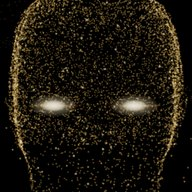
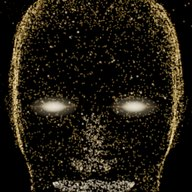
Particle face: even density (the back of the head no longer shows through the top), a nose picked out of the face's own ridge and tip, and lips of light that part as Jarvis talks

diff --git a/app/src/main/assets/www/index.html b/app/src/main/assets/www/index.html
@@ -381,6 +381,7 @@ function makeGoldenParticleFace(model) {
       const area = nrm.length() * 0.5;
       if (area < 1e-9) continue;
       if (mid && nrm.dot(toMid.set((localA.x + localB.x + localC.x) / 3, cy, (localA.z + localB.z + localC.z) / 3).sub(mid)) < 0) continue;   // facing into the head (inside the mouth, eye sockets): it'd shine through the face
+      if (nrm.z / (2 * area) < -0.15) continue;   // the back of the head: it shone through and doubled the dots up top
       const nz = Math.abs(nrm.z) / (2 * area), out = mid ? Math.max(0, (nrm.x * toMid.x + nrm.z * toMid.z) / (2 * area * Math.hypot(toMid.x, toMid.z) || 1)) : 1;
       totalArea += area * (nz > 0.5 || out > 0.6 ? 1 : 0.35);   // fewer dots in creases seen edge-on (they piled up into a frown); the outline keeps its dots
       candidates.push([localA.clone(), localB.clone(), localC.clone()]);
@@ -440,7 +441,52 @@ function makeGoldenParticleFace(model) {
       const g = new THREE.BufferGeometry(); g.setAttribute('position', new THREE.BufferAttribute(p, 3));
       const ring = new THREE.Points(g, mat(0.014, 0xffcf7a)); ring.frustumCulled = false; ring.rotation.y = Math.random() * 6; orbit.add(ring);
     }
-    particleFx = { spark, orbit };
+    // ---- a nose and a mouth you can see. The nose is the face's own ridge and tip, picked out brighter: at each height
+    //      between the mouth and the eyes, the dots nearest the front of the face. The mouth is two lips of light that part
+    //      as he talks, placed by the teeth inside the model (they sit right behind the lips).
+    const sample = out => { const tri = candidates[(() => { const target = Math.random() * totalArea; let lo = 0, hi = cumulative.length - 1;
+        while (lo < hi) { const m2 = (lo + hi) >> 1; if (cumulative[m2] < target) lo = m2 + 1; else hi = m2; } return lo; })()];
+      const u = Math.random(), v = Math.random(), su = Math.sqrt(u), wa = 1 - su, wb = su * (1 - v), wc = su * v;
+      out.set(tri[0].x * wa + tri[1].x * wb + tri[2].x * wc, tri[0].y * wa + tri[1].y * wb + tri[2].y * wc, tri[0].z * wa + tri[1].z * wb + tri[2].z * wc); return out; };
+    const eb2 = new THREE.Box3(), tb = new THREE.Box3();
+    eyeMeshes.forEach(e => eb2.expandByObject(e)); model.traverse(m => { if (m.isMesh && /teeth/i.test(m.name)) tb.expandByObject(m); });
+    const eyeY = eb2.isEmpty() ? mid.y : eb2.applyMatrix4(invRoot).getCenter(new THREE.Vector3()).y;
+    if (!tb.isEmpty()) tb.applyMatrix4(invRoot);
+    const my = tb.isEmpty() ? head.neck + span * 0.3 : tb.max.y - (tb.max.y - tb.min.y) * 0.25, mw = tb.isEmpty() ? span * 0.2 : (tb.max.x - tb.min.x);
+    const NB = 48, front = new Array(NB).fill(-Infinity), at = new Array(NB).fill(null), pts = [], q = new THREE.Vector3();
+    const bin = y => Math.floor((y - my) / (eyeY - my) * NB);
+    for (let i = 0; i < 60000; i++) {                  // a fine look at the face's shape (positions only, cheap)
+      sample(q); if (Math.abs(q.x - cx) > span * 0.13) continue;
+      const k = bin(q.y); if (k < 0 || k >= NB) continue; pts.push(q.x, q.y, q.z);
+      if (q.z > front[k]) { front[k] = q.z; at[k] = q.x; }
+    }
+    let lipZ = -Infinity; for (let i = 0; i < pts.length; i += 3) if (bin(pts[i + 1]) <= 1 && Math.abs(pts[i] - cx) < span * 0.05) lipZ = Math.max(lipZ, pts[i + 2]);
+    if (!Number.isFinite(lipZ)) lipZ = (head.cz || 0) + span * 0.4;
+    let tipK = 0; for (let k = 8; k < NB - 6; k++) if (front[k] > front[tipK] || tipK < 8) tipK = k;    // the nose tip: the most forward point above the lips
+    const nose = [];
+    for (let i = 0; i < pts.length && nose.length < 900 * 3; i += 3) {
+      const k = bin(pts[i + 1]); if (k < tipK - 4 || k > NB - 6) continue;
+      const wide = k <= tipK + 2 ? span * 0.08 : span * 0.026;                       // nostrils around the tip; a thin ridge above it
+      if (Math.abs(pts[i] - (at[k] ?? cx)) < wide && pts[i + 2] > front[k] - span * (k <= tipK + 2 ? 0.05 : 0.02)) nose.push(cx + (pts[i] - cx) * widen(pts[i + 1]), pts[i + 1], pts[i + 2] + span * 0.004);
+    }
+    const ng = new THREE.BufferGeometry(); ng.setAttribute('position', new THREE.Float32BufferAttribute(nose, 3));
+    const noseDots = new THREE.Points(ng, mat(0.017, 0xffe7b8)); noseDots.frustumCulled = false; model.add(noseDots);
+    const NL = 520, lipT = new Float32Array(NL), lipD = new Float32Array(NL), lp = new Float32Array(NL * 3);
+    for (let i = 0; i < NL; i++) { lipT[i] = Math.random() * 2 - 1; lipD[i] = Math.random(); }
+    const lg = new THREE.BufferGeometry(); lg.setAttribute('position', new THREE.BufferAttribute(lp, 3));
+    const lips = new THREE.Points(lg, mat(0.018, 0xfff0cf)); lips.frustumCulled = false; model.add(lips);
+    const shapeLips = open => {                        // open: 0 closed .. 1 wide; upper and lower lip, meeting at the corners
+      const w = mw * 0.55 * widen(my) * (1 - 0.15 * open), gap = open * span * 0.085;
+      for (let i = 0; i < NL; i++) {
+        const t = lipT[i], c = 1 - t * t, up = i % 2 === 0, th = lipD[i] * Math.sqrt(c) * span * (up ? 0.02 : 0.028);
+        lp[i * 3] = cx + t * w;
+        lp[i * 3 + 1] = my + (up ? 1 : -1) * (gap * c * 0.5 + th) + (up ? span * 0.004 * Math.cos(t * 9) * c : 0);   // a hint of a cupid's bow
+        lp[i * 3 + 2] = lipZ + span * 0.01 - t * t * span * 0.07;
+      }
+      lg.attributes.position.needsUpdate = true;
+    };
+    shapeLips(0);
+    particleFx = { spark, orbit, shapeLips, open: 0 };
   }
   return cloud;
 }
@@ -644,6 +690,8 @@ function applyColors() {
   if (particleFx && avatarModel) {
     const t = performance.now() / 1000, f = particleFx;
     f.spark.forEach((o, i) => { o.material.opacity = avatarAlpha * (0.55 + 0.45 * Math.sin(t * 1.7 + i * 3.1)); });
+    const syll = Math.abs(Math.sin(t * 9.3) * Math.sin(t * 3.7 + 1.3)) * 0.75 + Math.abs(Math.sin(t * 15.1)) * 0.25;   // a speaking rhythm
+    f.open += (speakingAmount * (0.15 + 0.85 * syll) - f.open) * 0.35; f.shapeLips(f.open);
     f.orbit.rotation.y = t * 0.12 * currentSpinMul * 2.5; f.orbit.rotation.z = 0.12 * Math.sin(t * 0.2);
   }
 }

diff --git a/pc_source/index.html b/pc_source/index.html
@@ -353,6 +353,7 @@ function makeGoldenParticleFace(model) {
       const area = nrm.length() * 0.5;
       if (area < 1e-9) continue;
       if (mid && nrm.dot(toMid.set((localA.x + localB.x + localC.x) / 3, cy, (localA.z + localB.z + localC.z) / 3).sub(mid)) < 0) continue;   // facing into the head (inside the mouth, eye sockets): it'd shine through the face
+      if (nrm.z / (2 * area) < -0.15) continue;   // the back of the head: it shone through and doubled the dots up top
       const nz = Math.abs(nrm.z) / (2 * area), out = mid ? Math.max(0, (nrm.x * toMid.x + nrm.z * toMid.z) / (2 * area * Math.hypot(toMid.x, toMid.z) || 1)) : 1;
       totalArea += area * (nz > 0.5 || out > 0.6 ? 1 : 0.35);   // fewer dots in creases seen edge-on (they piled up into a frown); the outline keeps its dots
       candidates.push([localA.clone(), localB.clone(), localC.clone()]);
@@ -412,7 +413,52 @@ function makeGoldenParticleFace(model) {
       const g = new THREE.BufferGeometry(); g.setAttribute('position', new THREE.BufferAttribute(p, 3));
       const ring = new THREE.Points(g, mat(0.014, 0xffcf7a)); ring.frustumCulled = false; ring.rotation.y = Math.random() * 6; orbit.add(ring);
     }
-    particleFx = { spark, orbit };
+    // ---- a nose and a mouth you can see. The nose is the face's own ridge and tip, picked out brighter: at each height
+    //      between the mouth and the eyes, the dots nearest the front of the face. The mouth is two lips of light that part
+    //      as he talks, placed by the teeth inside the model (they sit right behind the lips).
+    const sample = out => { const tri = candidates[(() => { const target = Math.random() * totalArea; let lo = 0, hi = cumulative.length - 1;
+        while (lo < hi) { const m2 = (lo + hi) >> 1; if (cumulative[m2] < target) lo = m2 + 1; else hi = m2; } return lo; })()];
+      const u = Math.random(), v = Math.random(), su = Math.sqrt(u), wa = 1 - su, wb = su * (1 - v), wc = su * v;
+      out.set(tri[0].x * wa + tri[1].x * wb + tri[2].x * wc, tri[0].y * wa + tri[1].y * wb + tri[2].y * wc, tri[0].z * wa + tri[1].z * wb + tri[2].z * wc); return out; };
+    const eb2 = new THREE.Box3(), tb = new THREE.Box3();
+    eyeMeshes.forEach(e => eb2.expandByObject(e)); model.traverse(m => { if (m.isMesh && /teeth/i.test(m.name)) tb.expandByObject(m); });
+    const eyeY = eb2.isEmpty() ? mid.y : eb2.applyMatrix4(invRoot).getCenter(new THREE.Vector3()).y;
+    if (!tb.isEmpty()) tb.applyMatrix4(invRoot);
+    const my = tb.isEmpty() ? head.neck + span * 0.3 : tb.max.y - (tb.max.y - tb.min.y) * 0.25, mw = tb.isEmpty() ? span * 0.2 : (tb.max.x - tb.min.x);
+    const NB = 48, front = new Array(NB).fill(-Infinity), at = new Array(NB).fill(null), pts = [], q = new THREE.Vector3();
+    const bin = y => Math.floor((y - my) / (eyeY - my) * NB);
+    for (let i = 0; i < 60000; i++) {                  // a fine look at the face's shape (positions only, cheap)
+      sample(q); if (Math.abs(q.x - cx) > span * 0.13) continue;
+      const k = bin(q.y); if (k < 0 || k >= NB) continue; pts.push(q.x, q.y, q.z);
+      if (q.z > front[k]) { front[k] = q.z; at[k] = q.x; }
+    }
+    let lipZ = -Infinity; for (let i = 0; i < pts.length; i += 3) if (bin(pts[i + 1]) <= 1 && Math.abs(pts[i] - cx) < span * 0.05) lipZ = Math.max(lipZ, pts[i + 2]);
+    if (!Number.isFinite(lipZ)) lipZ = (head.cz || 0) + span * 0.4;
+    let tipK = 0; for (let k = 8; k < NB - 6; k++) if (front[k] > front[tipK] || tipK < 8) tipK = k;    // the nose tip: the most forward point above the lips
+    const nose = [];
+    for (let i = 0; i < pts.length && nose.length < 900 * 3; i += 3) {
+      const k = bin(pts[i + 1]); if (k < tipK - 4 || k > NB - 6) continue;
+      const wide = k <= tipK + 2 ? span * 0.08 : span * 0.026;                       // nostrils around the tip; a thin ridge above it
+      if (Math.abs(pts[i] - (at[k] ?? cx)) < wide && pts[i + 2] > front[k] - span * (k <= tipK + 2 ? 0.05 : 0.02)) nose.push(cx + (pts[i] - cx) * widen(pts[i + 1]), pts[i + 1], pts[i + 2] + span * 0.004);
+    }
+    const ng = new THREE.BufferGeometry(); ng.setAttribute('position', new THREE.Float32BufferAttribute(nose, 3));
+    const noseDots = new THREE.Points(ng, mat(0.017, 0xffe7b8)); noseDots.frustumCulled = false; model.add(noseDots);
+    const NL = 520, lipT = new Float32Array(NL), lipD = new Float32Array(NL), lp = new Float32Array(NL * 3);
+    for (let i = 0; i < NL; i++) { lipT[i] = Math.random() * 2 - 1; lipD[i] = Math.random(); }
+    const lg = new THREE.BufferGeometry(); lg.setAttribute('position', new THREE.BufferAttribute(lp, 3));
+    const lips = new THREE.Points(lg, mat(0.018, 0xfff0cf)); lips.frustumCulled = false; model.add(lips);
+    const shapeLips = open => {                        // open: 0 closed .. 1 wide; upper and lower lip, meeting at the corners
+      const w = mw * 0.55 * widen(my) * (1 - 0.15 * open), gap = open * span * 0.085;
+      for (let i = 0; i < NL; i++) {
+        const t = lipT[i], c = 1 - t * t, up = i % 2 === 0, th = lipD[i] * Math.sqrt(c) * span * (up ? 0.02 : 0.028);
+        lp[i * 3] = cx + t * w;
+        lp[i * 3 + 1] = my + (up ? 1 : -1) * (gap * c * 0.5 + th) + (up ? span * 0.004 * Math.cos(t * 9) * c : 0);   // a hint of a cupid's bow
+        lp[i * 3 + 2] = lipZ + span * 0.01 - t * t * span * 0.07;
+      }
+      lg.attributes.position.needsUpdate = true;
+    };
+    shapeLips(0);
+    particleFx = { spark, orbit, shapeLips, open: 0 };
   }
   return cloud;
 }
@@ -564,6 +610,8 @@ function applyColors() {
   if (particleFx && avatarModel) {
     const t = performance.now() / 1000, f = particleFx;
     f.spark.forEach((o, i) => { o.material.opacity = avatarAlpha * (0.55 + 0.45 * Math.sin(t * 1.7 + i * 3.1)); });
+    const syll = Math.abs(Math.sin(t * 9.3) * Math.sin(t * 3.7 + 1.3)) * 0.75 + Math.abs(Math.sin(t * 15.1)) * 0.25;   // a speaking rhythm
+    f.open += (speakingAmount * (0.15 + 0.85 * syll) - f.open) * 0.35; f.shapeLips(f.open);
     f.orbit.rotation.y = t * 0.12 * currentSpinMul * 2.5; f.orbit.rotation.z = 0.12 * Math.sin(t * 0.2);
   }
 }

diff --git a/app/src/main/assets/www/local/ui.js b/app/src/main/assets/www/local/ui.js
@@ -343,7 +343,7 @@ export function faceHalf(W, H) { return W < H ? 0.30 * W : 0.135 * H; }   // the
 // the particle head (chin to crown) as measured at S21 size (360x756): ~0.47 of the width tall each side of its middle (0.5 leaves the sparse chin room), at 0.54 down
 export function stageFor({ H, W = H * 0.45, cardTop, safeTop = 0, cy = 0.54 }) {
   if (!cardTop || cardTop >= H) return { ty: 0, s: 1 };
-  const hh = W < H ? 0.5 * W : 0.21 * H, topLimit = safeTop + 64, gap = 14;
+  const hh = W < H ? 0.52 * W : 0.22 * H, topLimit = safeTop + 64, gap = 14;
   const centre = s => H / 2 + (H * cy - H / 2) * s;                // the camera zooms about the middle of the screen
   let s = 0.88, ty = Math.min(0, (cardTop - gap) - (centre(s) + hh * s));
   if (centre(s) - hh * s + ty < topLimit) {                         // not enough room even lifted: shrink to fit between the top bar and the card
